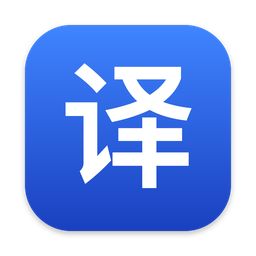
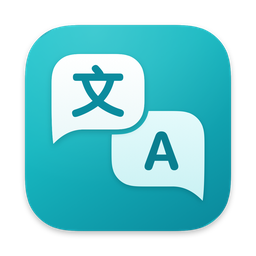
换新图标：青色渐变底 + "文""A"双语对话气泡

diff --git a/scripts/make_icon.swift b/scripts/make_icon.swift
@@ -1,47 +1,191 @@
-// 生成 1024×1024 的 app 图标 PNG：蓝色圆角方块 + 白色"译"字。
-// 用法：swiftc make_icon.swift -o make_icon && ./make_icon out.png
+// 生成 1024×1024 的 app 图标 PNG：青色渐变底，两个叠压的对话气泡，分别写"文"和"A"。
+// 用法：swiftc -O make_icon.swift -o make_icon && ./make_icon out.png
 import AppKit
+import CoreGraphics
+import CoreText
 
-let canvas: CGFloat = 1024
-let output = CommandLine.arguments.count > 1 ? CommandLine.arguments[1] : "icon_1024.png"
+// ---------- helpers ----------
+func rgb(_ hex: UInt32, _ a: CGFloat = 1) -> CGColor {
+    let r = CGFloat((hex >> 16) & 0xFF) / 255
+    let g = CGFloat((hex >> 8) & 0xFF) / 255
+    let b = CGFloat(hex & 0xFF) / 255
+    return CGColor(srgbRed: r, green: g, blue: b, alpha: a)
+}
 
-guard let rep = NSBitmapImageRep(
-    bitmapDataPlanes: nil, pixelsWide: Int(canvas), pixelsHigh: Int(canvas),
-    bitsPerSample: 8, samplesPerPixel: 4, hasAlpha: true, isPlanar: false,
-    colorSpaceName: .deviceRGB, bytesPerRow: 0, bitsPerPixel: 0
-) else { fatalError("无法创建位图") }
+/// Apple-style continuous-curvature rounded rect (squircle corners).
+/// Coordinates are y-up. Corner offsets follow the widely used iOS 7+ reverse-engineered curve.
+func continuousRect(_ rect: CGRect, radius: CGFloat) -> CGPath {
+    let k: CGFloat = 1.52866483
+    let r = min(radius, min(rect.width, rect.height) / 2 / k)
+    // corners traversed counter-clockwise (y-up): BR, TR, TL, BL
+    let corners: [(CGPoint, CGVector, CGVector)] = [
+        (CGPoint(x: rect.maxX, y: rect.minY), CGVector(dx: 1, dy: 0), CGVector(dx: 0, dy: 1)),
+        (CGPoint(x: rect.maxX, y: rect.maxY), CGVector(dx: 0, dy: 1), CGVector(dx: -1, dy: 0)),
+        (CGPoint(x: rect.minX, y: rect.maxY), CGVector(dx: -1, dy: 0), CGVector(dx: 0, dy: -1)),
+        (CGPoint(x: rect.minX, y: rect.minY), CGVector(dx: 0, dy: -1), CGVector(dx: 1, dy: 0)),
+    ]
+    let p = CGMutablePath()
+    for (i, (c, din, dout)) in corners.enumerated() {
+        func pt(_ u: CGFloat, _ v: CGFloat) -> CGPoint {
+            CGPoint(x: c.x - din.dx * u * r + dout.dx * v * r,
+                    y: c.y - din.dy * u * r + dout.dy * v * r)
+        }
+        if i == 0 { p.move(to: pt(k, 0)) } else { p.addLine(to: pt(k, 0)) }
+        p.addCurve(to: pt(0.66993427, 0.06549600), control1: pt(1.08849323, 0), control2: pt(0.86840689, 0))
+        p.addLine(to: pt(0.63149399, 0.07491100))
+        p.addCurve(to: pt(0.07491100, 0.63149399), control1: pt(0.37282392, 0.16905899), control2: pt(0.16905899, 0.37282392))
+        p.addLine(to: pt(0.06549600, 0.66993427))
+        p.addCurve(to: pt(0, k), control1: pt(0, 0.86840689), control2: pt(0, 1.08849323))
+    }
+    p.closeSubpath()
+    return p
+}
 
-NSGraphicsContext.saveGraphicsState()
-NSGraphicsContext.current = NSGraphicsContext(bitmapImageRep: rep)
+/// Speech bubble = continuous rounded body + curved tail at a bottom corner.
+/// side: -1 = tail at bottom-left, +1 = tail at bottom-right.
+func bubble(_ body: CGRect, radius: CGFloat, side: CGFloat) -> CGPath {
+    let bodyPath = continuousRect(body, radius: radius)
+    let w = body.width, h = body.height
+    // work in a local frame where x grows away from the tail-side edge
+    let edgeX = side < 0 ? body.minX : body.maxX
+    func P(_ dx: CGFloat, _ y: CGFloat) -> CGPoint { CGPoint(x: edgeX - side * dx, y: y) }
+    let base = body.minY
+    let tail = CGMutablePath()
+    let mid = base + 0.5 * h                         // vertical tangent point of the side edge
+    tail.move(to: P(0.40 * w, mid))                  // deep inside body (guarantees clean union)
+    tail.addLine(to: P(0, mid))
+    // outer edge continues the side of the bubble straight down into the tip
+    tail.addCurve(to: P(0.02 * w, base - 0.19 * h), control1: P(0, base + 0.14 * h), control2: P(0.004 * w, base - 0.06 * h))
+    // concave inner edge sweeping back to the bottom edge
+    tail.addCurve(to: P(0.33 * w, base), control1: P(0.09 * w, base - 0.10 * h), control2: P(0.19 * w, base - 0.005 * h))
+    tail.addLine(to: P(0.40 * w, base + 0.2 * h))
+    tail.closeSubpath()
+    return bodyPath.union(tail, using: .winding)
+}
 
-// macOS 图标规范：内容区约 824×824，四周留白。
-let inset: CGFloat = 100
-let rect = NSRect(x: inset, y: inset, width: canvas - 2 * inset, height: canvas - 2 * inset)
-let shape = NSBezierPath(roundedRect: rect, xRadius: 185, yRadius: 185)
+func drawGlyph(_ ctx: CGContext, _ text: String, font: NSFont, color: CGColor, center: CGPoint, stroke: CGFloat = 0) {
+    var attrs: [NSAttributedString.Key: Any] = [
+        .font: font,
+        .foregroundColor: NSColor(cgColor: color)!,
+        NSAttributedString.Key(kCTForegroundColorAttributeName as String): color,
+    ]
+    if stroke > 0 {
+        attrs[NSAttributedString.Key(kCTStrokeWidthAttributeName as String)] = -stroke / font.pointSize * 100
+        attrs[NSAttributedString.Key(kCTStrokeColorAttributeName as String)] = color
+    }
+    let s = NSAttributedString(string: text, attributes: attrs)
+    let line = CTLineCreateWithAttributedString(s)
+    ctx.saveGState()
+    ctx.textMatrix = .identity
+    let ink = CTLineGetImageBounds(line, ctx)     // true glyph ink bounds, relative to origin
+    ctx.textPosition = CGPoint(x: center.x - ink.midX, y: center.y - ink.midY)
+    CTLineDraw(line, ctx)
+    ctx.restoreGState()
+}
 
-NSGraphicsContext.saveGraphicsState()
-let shadow = NSShadow()
-shadow.shadowColor = NSColor.black.withAlphaComponent(0.28)
-shadow.shadowBlurRadius = 24
-shadow.shadowOffset = NSSize(width: 0, height: -10)
-shadow.set()
-NSColor(red: 0.13, green: 0.32, blue: 0.85, alpha: 1).setFill()
-shape.fill()
-NSGraphicsContext.restoreGraphicsState()
+func roundedFont(_ size: CGFloat, _ weight: NSFont.Weight) -> NSFont {
+    let base = NSFont.systemFont(ofSize: size, weight: weight)
+    if let d = base.fontDescriptor.withDesign(.rounded), let f = NSFont(descriptor: d, size: size) { return f }
+    return base
+}
 
-NSGradient(
-    starting: NSColor(red: 0.25, green: 0.52, blue: 1.00, alpha: 1),
-    ending: NSColor(red: 0.10, green: 0.25, blue: 0.75, alpha: 1)
-)?.draw(in: shape, angle: -90)
+// ---------- 配色 ----------
+let backFill: [UInt32] = [0xE4FAFB, 0xC9F1F3]   // 后面"A"气泡的渐变（上 -> 下）
+let aColor: UInt32 = 0x0A7F90
+let gap: CGFloat = 20                           // 前后两个气泡之间的缝
 
-let font = NSFont(name: "PingFangSC-Semibold", size: 540) ?? NSFont.systemFont(ofSize: 540, weight: .semibold)
-let attributes: [NSAttributedString.Key: Any] = [.font: font, .foregroundColor: NSColor.white]
-let glyph = NSAttributedString(string: "译", attributes: attributes)
-let size = glyph.size()
-glyph.draw(at: NSPoint(x: (canvas - size.width) / 2, y: (canvas - size.height) / 2 + 12))
+// ---------- canvas ----------
+let S = 1024
+let cs = CGColorSpace(name: CGColorSpace.sRGB)!
+let ctx = CGContext(data: nil, width: S, height: S, bitsPerComponent: 8, bytesPerRow: 0,
+                    space: cs, bitmapInfo: CGImageAlphaInfo.premultipliedLast.rawValue)!
+ctx.setAllowsAntialiasing(true)
+ctx.setShouldAntialias(true)
+ctx.interpolationQuality = .high
+NSGraphicsContext.current = NSGraphicsContext(cgContext: ctx, flipped: false)
 
-NSGraphicsContext.restoreGraphicsState()
+let iconRect = CGRect(x: 100, y: 100, width: 824, height: 824)
+let iconPath = continuousRect(iconRect, radius: 185.4)
 
-guard let png = rep.representation(using: .png, properties: [:]) else { fatalError("PNG 编码失败") }
-try png.write(to: URL(fileURLWithPath: output))
-print("wrote \(output)")
+// drop shadow of the tile
+ctx.saveGState()
+ctx.setShadow(offset: CGSize(width: 0, height: -10), blur: 24, color: rgb(0x000000, 0.28))
+ctx.addPath(iconPath)
+ctx.setFillColor(rgb(0x12A6B2))
+ctx.fillPath()
+ctx.restoreGState()
+
+// tile gradient (top-left light -> bottom-right deep)
+ctx.saveGState()
+ctx.addPath(iconPath)
+ctx.clip()
+let bg = CGGradient(colorsSpace: cs, colors: [rgb(0x1CC3CB), rgb(0x17B8C1), rgb(0x0B8C9E)] as CFArray,
+                    locations: [0, 0.35, 1])!
+ctx.drawLinearGradient(bg, start: CGPoint(x: 240, y: 924), end: CGPoint(x: 784, y: 100), options: [])
+// soft top highlight
+let hl = CGGradient(colorsSpace: cs, colors: [rgb(0xFFFFFF, 0.16), rgb(0xFFFFFF, 0)] as CFArray, locations: [0, 1])!
+ctx.drawRadialGradient(hl, startCenter: CGPoint(x: 380, y: 900), startRadius: 0,
+                       endCenter: CGPoint(x: 380, y: 900), endRadius: 620, options: [])
+ctx.restoreGState()
+
+// ---------- bubbles ----------
+// front: "文", upper-left, tail bottom-left.  back: "A", lower-right, tail bottom-right.
+let frontBody = CGRect(x: 206, y: 506, width: 372, height: 302)
+let backBody  = CGRect(x: 446, y: 278, width: 372, height: 302)
+let frontPath = bubble(frontBody, radius: 104, side: -1)
+let backPath  = bubble(backBody, radius: 104, side: 1)
+let shadowTeal = rgb(0x04414C, 0.30)
+
+// back bubble (+ its glyph) in its own layer so the gap can be cut
+ctx.saveGState()
+ctx.addPath(iconPath)
+ctx.clip()
+ctx.beginTransparencyLayer(auxiliaryInfo: nil)
+ctx.saveGState()
+ctx.setShadow(offset: CGSize(width: 0, height: -8), blur: 22, color: shadowTeal)
+ctx.beginTransparencyLayer(auxiliaryInfo: nil)
+ctx.addPath(backPath)
+ctx.clip()
+let bgBack = CGGradient(colorsSpace: cs, colors: backFill.map { rgb($0) } as CFArray, locations: [0, 1])!
+ctx.drawLinearGradient(bgBack, start: CGPoint(x: 0, y: backBody.maxY), end: CGPoint(x: 0, y: backBody.minY - 70), options: [])
+ctx.endTransparencyLayer()
+ctx.restoreGState()
+drawGlyph(ctx, "A", font: roundedFont(214, .bold), color: rgb(aColor),
+          center: CGPoint(x: backBody.midX + 14, y: backBody.midY - 8))
+if gap > 0 {
+    ctx.setBlendMode(.clear)
+    ctx.addPath(frontPath)
+    ctx.setLineWidth(gap * 2)
+    ctx.setLineJoin(.round)
+    ctx.drawPath(using: .fillStroke)
+    ctx.setBlendMode(.normal)
+}
+ctx.endTransparencyLayer()
+ctx.restoreGState()
+
+// front bubble with soft shadow falling on the back bubble
+ctx.saveGState()
+ctx.addPath(iconPath)
+ctx.clip()
+ctx.saveGState()
+ctx.setShadow(offset: CGSize(width: 0, height: -10), blur: 26, color: shadowTeal)
+ctx.addPath(frontPath)
+ctx.setFillColor(rgb(0xFFFFFF))
+ctx.fillPath()
+ctx.restoreGState()
+// very subtle vertical sheen on the white bubble
+ctx.addPath(frontPath)
+ctx.clip()
+let sheen = CGGradient(colorsSpace: cs, colors: [rgb(0xFFFFFF), rgb(0xE9F7F8)] as CFArray, locations: [0, 1])!
+ctx.drawLinearGradient(sheen, start: CGPoint(x: 0, y: frontBody.maxY), end: CGPoint(x: 0, y: frontBody.minY - 70), options: [])
+ctx.restoreGState()
+
+let wenFont = NSFont(name: "STYuanti-SC-Bold", size: 212) ?? NSFont.systemFont(ofSize: 206, weight: .bold)
+drawGlyph(ctx, "文", font: wenFont, color: rgb(0x0B8C9E), center: CGPoint(x: frontBody.midX, y: frontBody.midY + 2), stroke: 4)
+
+// ---------- save ----------
+let img = ctx.makeImage()!
+let rep = NSBitmapImageRep(cgImage: img)
+let out = CommandLine.arguments.count > 1 ? CommandLine.arguments[1] : "icon_1024.png"
+try! rep.representation(using: .png, properties: [:])!.write(to: URL(fileURLWithPath: out))
+print("wrote \(out)")
